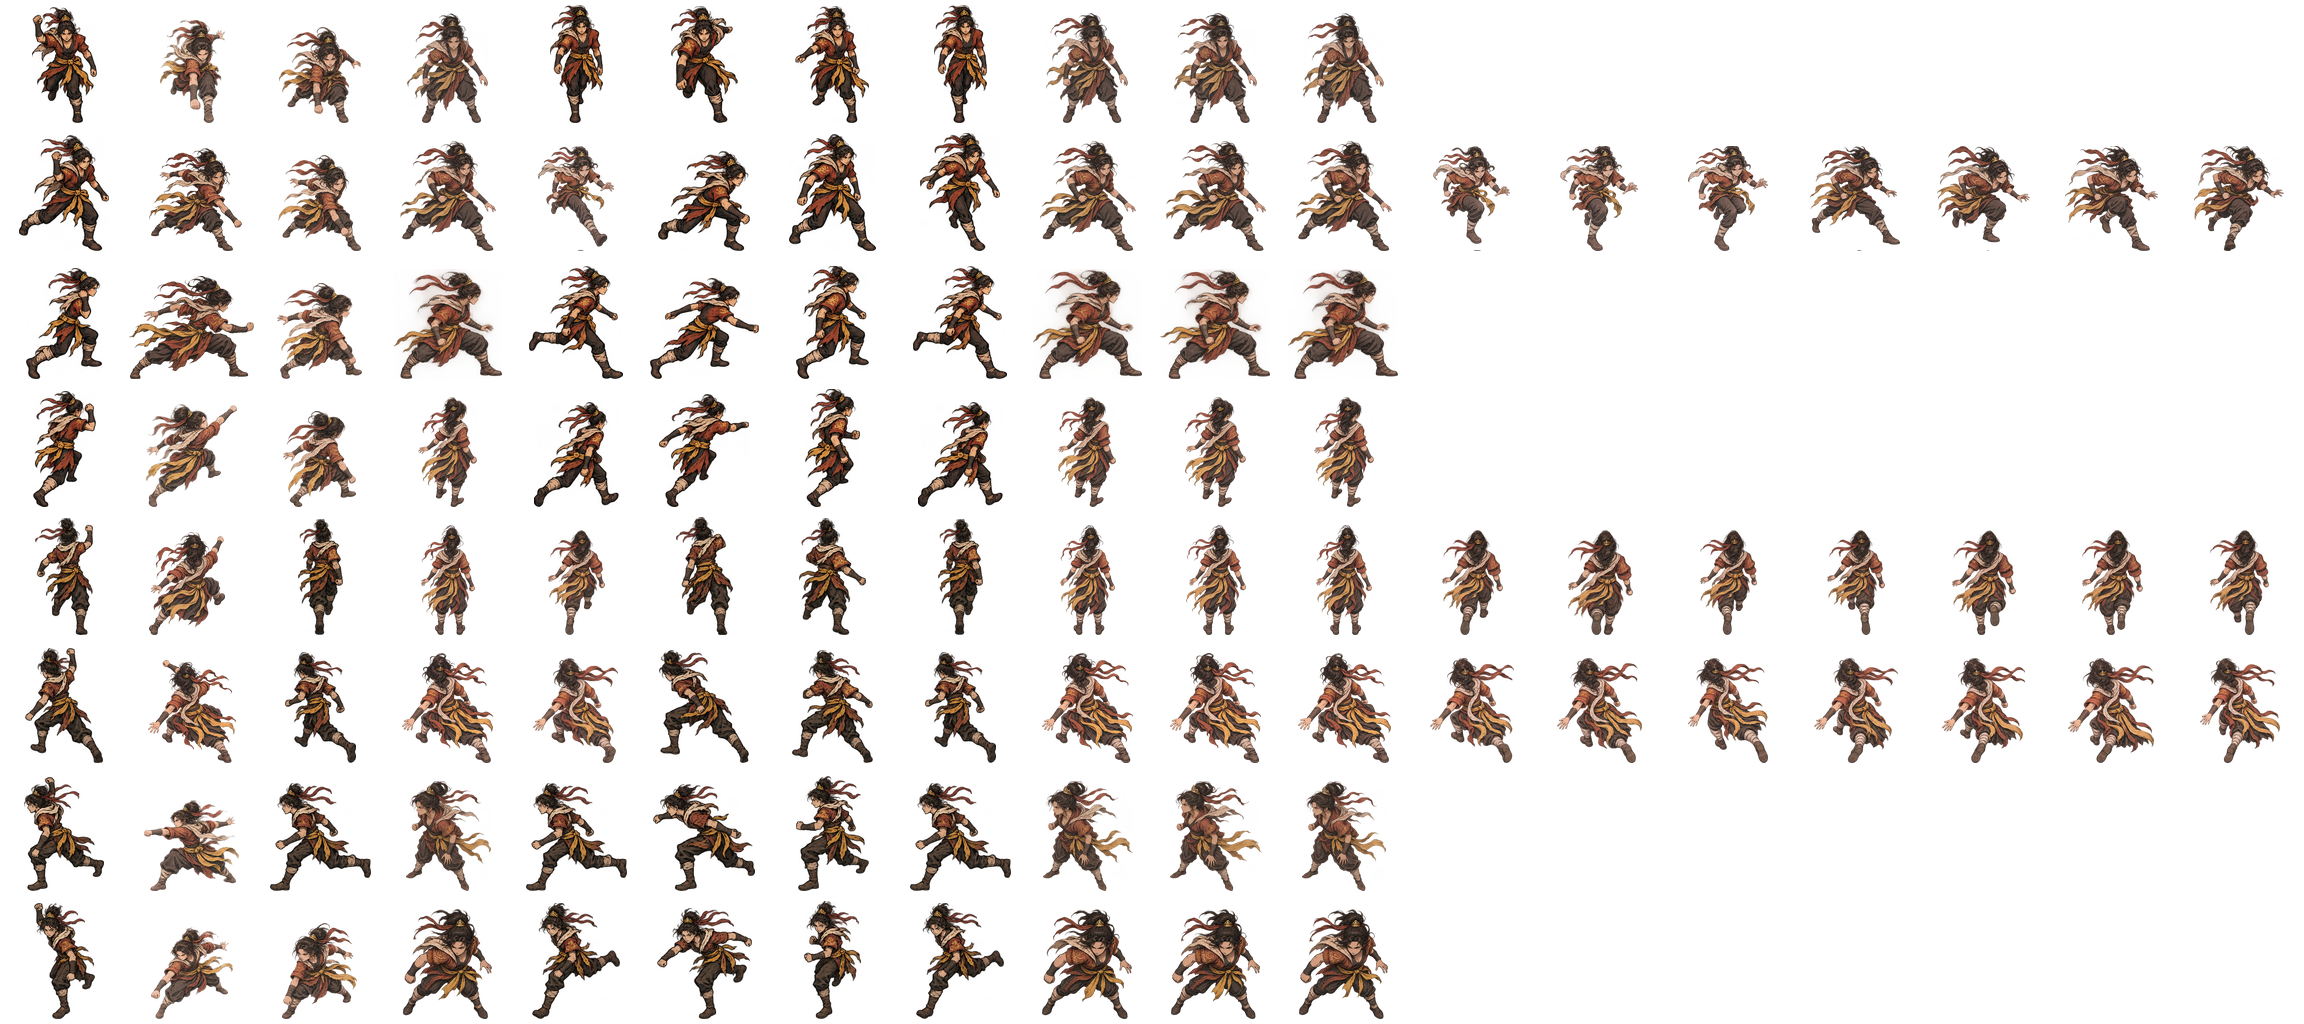
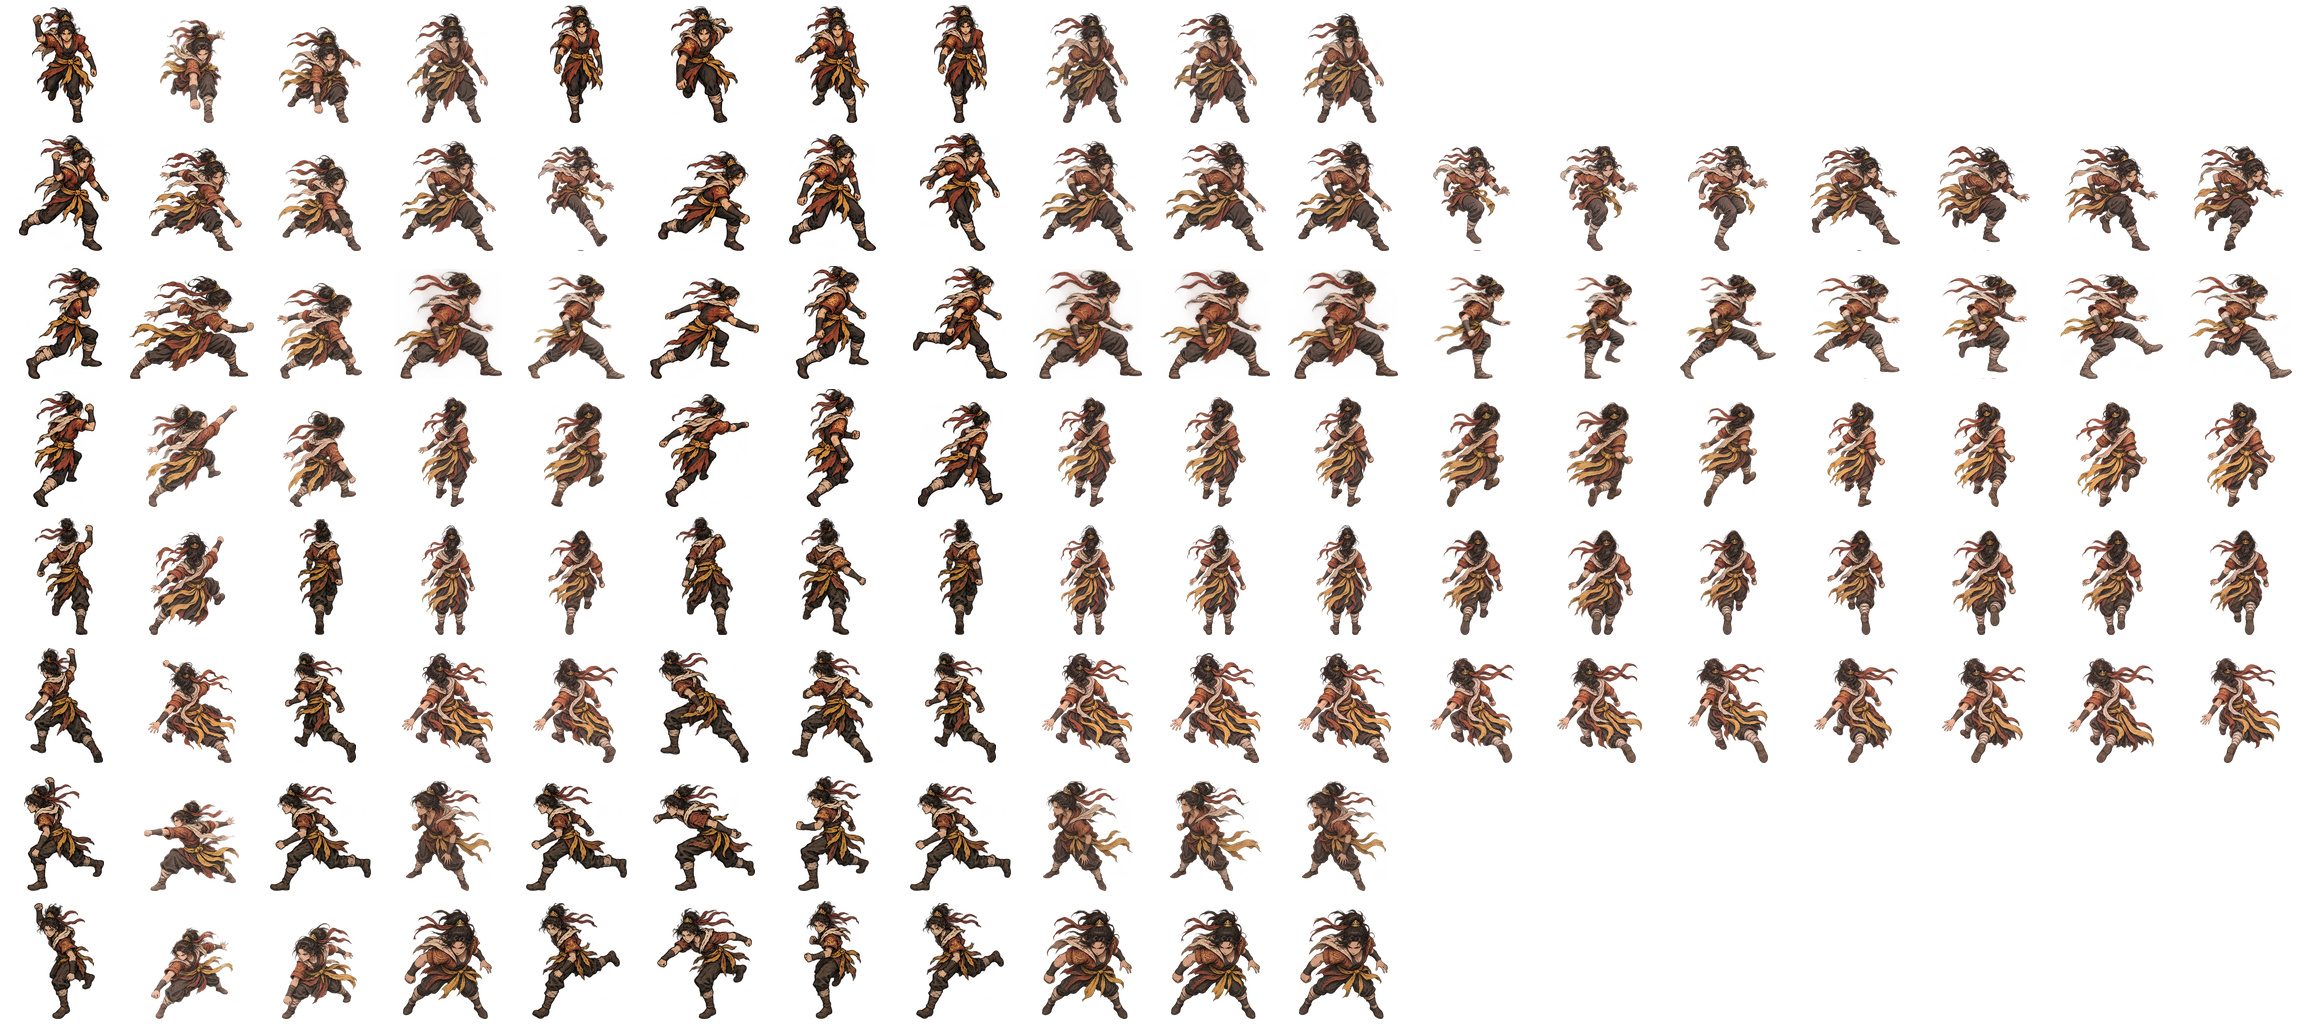
paint the east and northeast Fire axe walks

Changed region(s): [[0.625, 0.25, 1.0, 0.5], [0.2188, 0.25, 0.2812, 0.5]]

diff --git a/client-unity/UnityProject/Assets/Tests/Editor/StormInkFireAxeAuthoringEditModeTests.cs b/client-unity/UnityProject/Assets/Tests/Editor/StormInkFireAxeAuthoringEditModeTests.cs
@@ -116,12 +116,12 @@ namespace Roguehalla.Client.Tests
             }
         }
 
-        [TestCase(1)] [TestCase(4)] [TestCase(5)]
+        [TestCase(1)] [TestCase(2)] [TestCase(3)] [TestCase(4)] [TestCase(5)]
         public void AuthoredWalkBearingsUseEightRegisteredDrawingsThroughTheGaitCycle(int row)
         {
             var config = StormInkFireAxeAuthoring.Load();
             Assert.That(config.StrideStagesFor(row), Is.EqualTo(8));
-            Assert.That(config.StrideStagesFor(2), Is.EqualTo(1));
+            Assert.That(config.StrideStagesFor(6), Is.EqualTo(1));
             var poses = Enumerable.Range(0, 8).Select(stage => config.Frame(row, StormInkFireAxePose.Stride,
                 Gait.FrameIndex(stage + .25f, config.StrideStagesFor(row)))).ToArray();
             Assert.That(poses.Distinct().Count(), Is.EqualTo(8));
